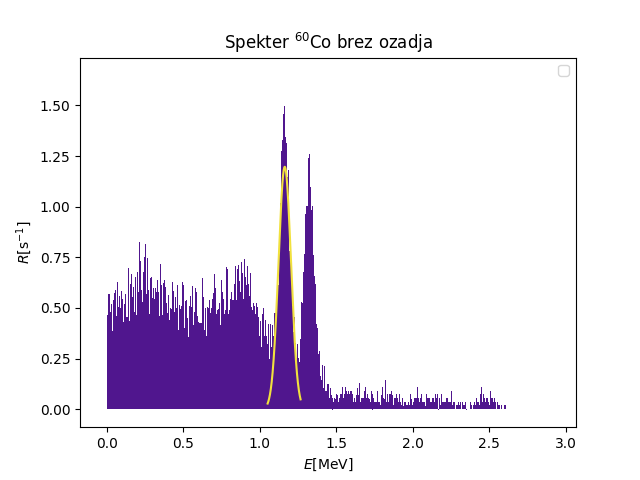
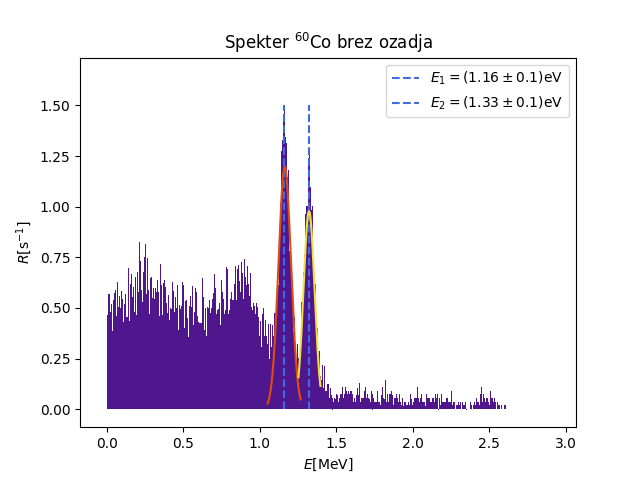
feat: graph is now complete for cobalt, racunam energijsko ločljivost

diff --git a/07gamma/source/obdelovanje_07gamma.py b/07gamma/source/obdelovanje_07gamma.py
@@ -134,9 +134,16 @@ xcal_Na22_p1 = x_cal[start_peak1: end_peak1]
 
 fitpar_na22_p1, fitcov_na22_p1 = curve_fit(gauss, xcal_Na22_p1,
                                            r_na22[start_peak1:end_peak1], p0=[1,1,1])
+
+sigma_Na1 = unp.uarray(fitpar_na22_p1[2], np.sqrt(np.diag(fitcov_na22_p1))[2])
 # širina vrhov je sigma
-print('Širina prvega vrha za natrij: ', unp.uarray(fitpar_na22_p1[2],
-                                                   np.sqrt(np.diag(fitcov_na22_p1))[2]))
+print('Širina prvega vrha za natrij: ', sigma_Na1)
+
+# calculating energijsko ločljivost
+
+E0_Na1 = unp.uarray(fitpar_na22_p1[1], np.sqrt(np.diag(fitcov_na22_p1))[1])
+
+print("R natrija: ", 2.355 * sigma_Na1/E0_Na1)
 
 #plt.plot(xcal_Na22_p1, gauss(xcal_Na22_p1, *fitpar_na22_p1), color=e2)
 
@@ -250,14 +257,30 @@ fitparCo1, fitcovCo1 = curve_fit(gauss, xCalCo1,
 
 # širina prvega vrha kobalta
 
-print("Širina prvega vrha cezija: ", unp.uarray(fitparCo1[2],
+print("Širina prvega vrha kobalt: ", unp.uarray(fitparCo1[2],
                                                 np.sqrt(np.diag(fitcovCo1))[2]))
 
-plt.plot(xCalCo1, gauss(xCalCo1, *fitparCo1), color=e3)
+plt.plot(xCalCo1, gauss(xCalCo1, *fitparCo1), color=e2)
+
+# fitting for the second peak of Co
+
+startPeakCo2 = argmaxCo2 - 200
+endPeakCo2 = argmaxCo2 + 200
+
+xCalCo2 = x_cal[startPeakCo2:endPeakCo2]
+
+fitparCo2, fitcovCo2 = curve_fit(gauss, xCalCo2,
+                                 r_Co60[startPeakCo2:endPeakCo2])
+
+# širina prvega vrha kobalta
+
+print("Širina drugega vrha kobalta: ", unp.uarray(fitparCo2[2],
+                                                np.sqrt(np.diag(fitcovCo2))[2]))
+
+plt.plot(xCalCo2, gauss(xCalCo2, *fitparCo2), color=e3)
 
 plt.bar(x_cal, r_Co60, width=0.001, color=d1)
 
-'''
 # first peak
 plt.vlines(x_cal[argmaxCo1], 0, 1.5, color=d2, ls='--', zorder=1,
            label=r'$E_1 = (1.16 \pm 0.1) \mathrm{eV}$')
@@ -266,7 +289,7 @@ plt.vlines(x_cal[argmaxCo1], 0, 1.5, color=d2, ls='--', zorder=1,
 
 plt.vlines(x_cal[argmaxCo2], 0, 1.5, color=d2, ls='--', zorder=1,
            label=r'$E_2 = (1.33 \pm 0.1) \mathrm{eV}$')
-'''
+
 # miscs for matplotlib
 plt.legend()
 plt.title(r'Spekter $^{60} \mathrm{Co}$ brez ozadja')
